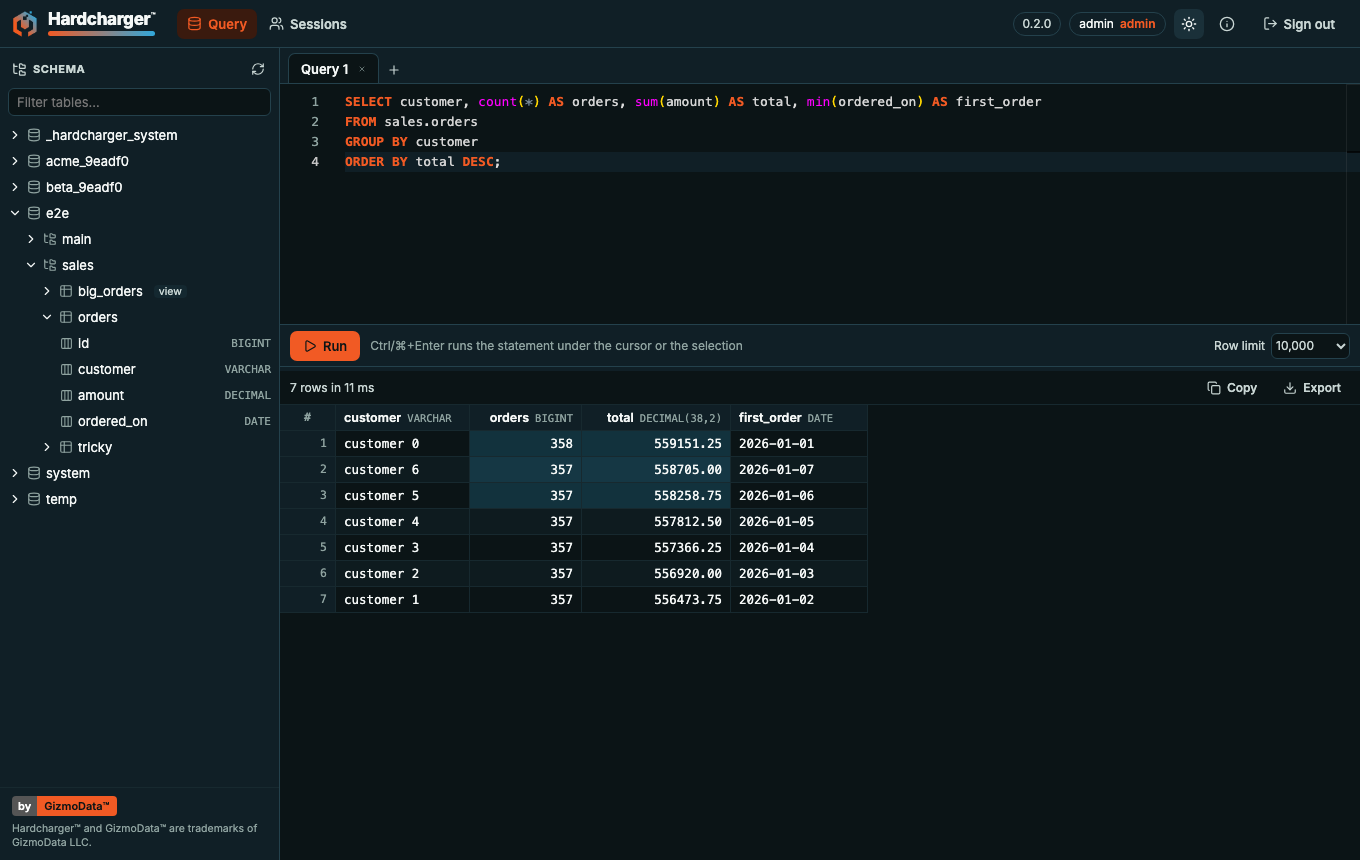
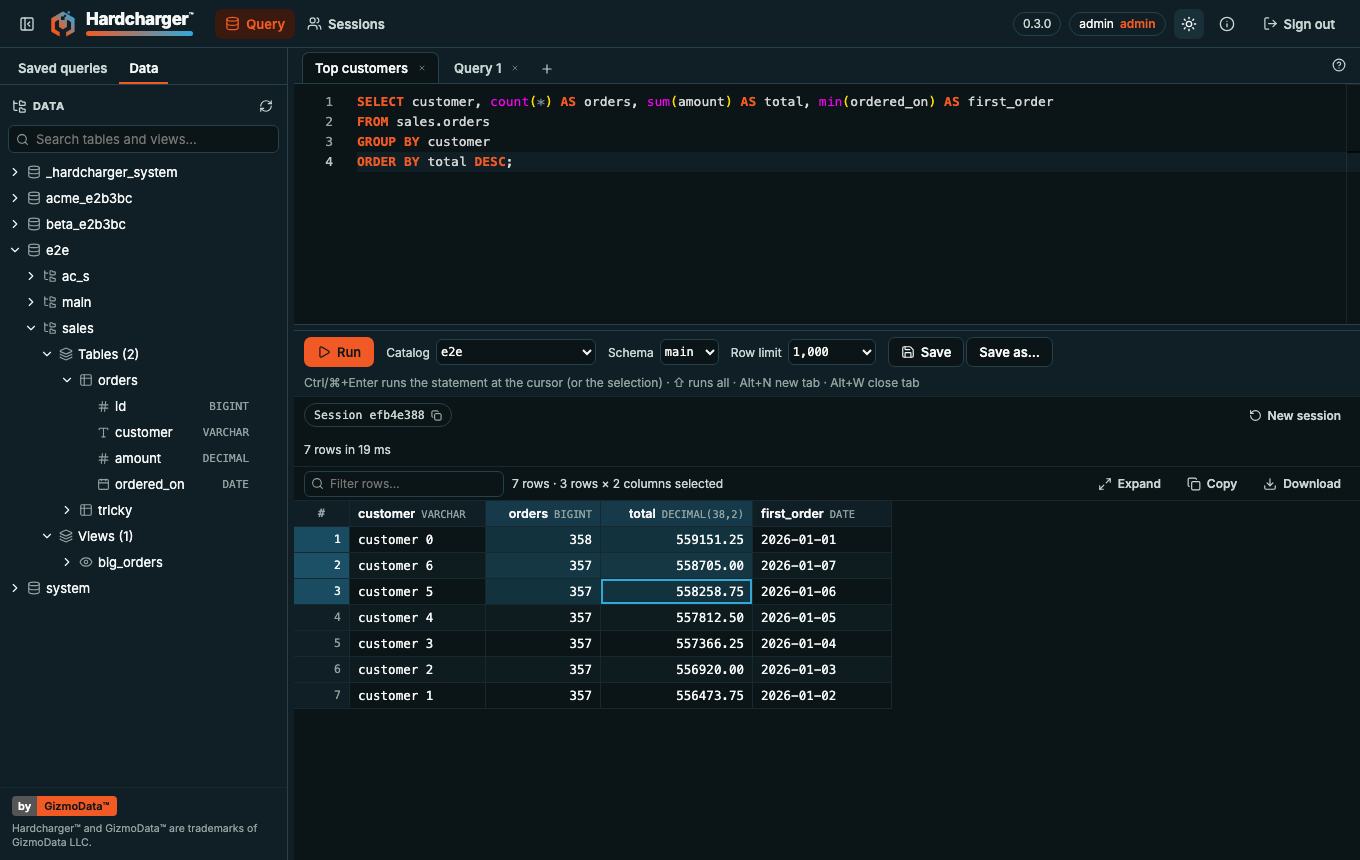
Web UI guide: the editor's full behavior, sessions and transactions, what stays in the browser
Tabs with their own sessions, Run all, transactions, the grid, the schema browser
and autocomplete, saved queries, Run as, every download format, resizing, the help
and phone-sized screens. A section on sessions and transactions, with a tested
example of the session idle timeout (idle_timeout_s), and a table of what the page
keeps in the browser and for whom. Fresh screenshots. The page's 18 examples pass
against a server that embeds the UI (hardcharger main 7a8c72f8, linux-arm64); a
changed expected value fails.

diff --git a/CHANGELOG.md b/CHANGELOG.md
@@ -8,6 +8,14 @@ All notable changes to the Hardcharger documentation are recorded here. The form
 
 ### Added
 
+- Web UI guide, the editor's full behavior (Hardcharger feat/ui-portal-parity): tabs with their
+  own sessions, Run all, transactions, the grid, the schema browser and autocomplete, saved
+  queries, Run as, every download format, resizing, the help, phone-sized screens; a section on
+  sessions and transactions (the session idle timeout, tested: `--session-idle-timeout 3600`
+  shows as the session document's `idle_timeout_s`) and a table of what the page keeps in the
+  browser. Fresh screenshots (the editor with tabs and a selection, saved queries with the
+  Download menu). The page's 18 examples pass against a server that embeds the UI (main
+  7a8c72f8); a changed expected value fails, as it should.
 - Hardcharger 0.3.0 (main 5983a6a, warp-sql a8d762a): the reference is regenerated from the
   `:main` image (`sha-5983a6a`), and the release notes show the `[0.3.0]` section. New:
   - Error codes: `invalid_token` reasons (`token_expired`, `token_revoked`, `credentials_changed`,
